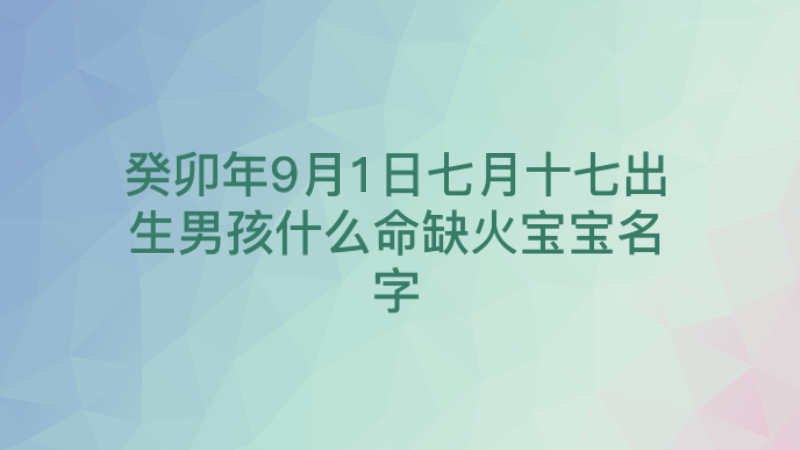
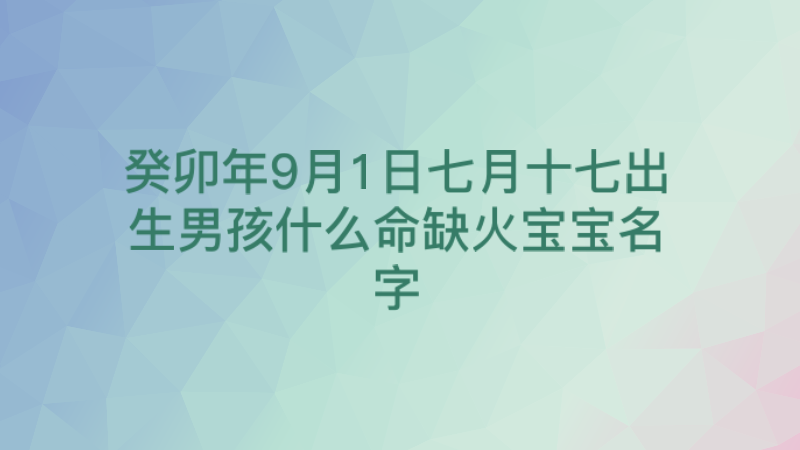
embed

Changed region(s): [[0.1562, 0.3111, 0.8438, 0.5911], [0.4688, 0.5911, 0.5312, 0.7156]]

diff --git a/background-maker.go b/background-maker.go
@@ -1,14 +1,23 @@
 package background_maker
 
 import (
+	_ "embed"
 	"github.com/fogleman/gg"
+	"github.com/golang/freetype"
+	"github.com/golang/freetype/truetype"
 	"github.com/orzmoe/background-maker/pkg/trianglify"
 )
 
+//go:embed "PingFang SC Bold.ttf"
+var fontEmbed []byte
+
 func BackgroundMaker(text string) (*gg.Context, error) {
-	fontFace, err := gg.LoadFontFace("../PingFang SC Bold.ttf", 48)
+	font, err := freetype.ParseFont(fontEmbed)
 	if err != nil {
 		return nil, err
 	}
+	fontFace := truetype.NewFace(font, &truetype.Options{
+		Size: 42,
+	})
 	return trianglify.New(800, 450, 3000, text, fontFace, nil)
 }
